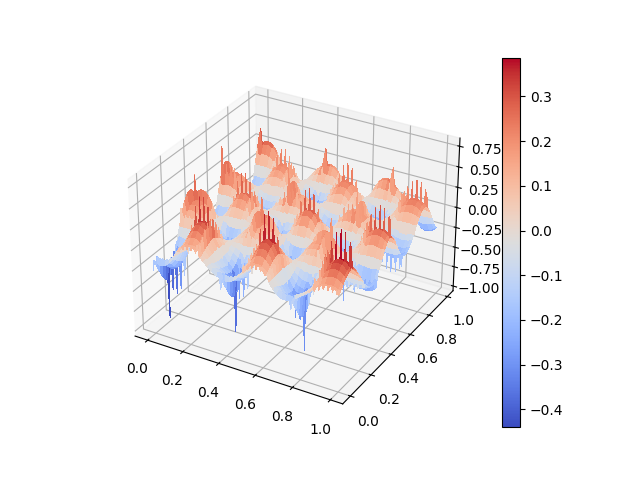
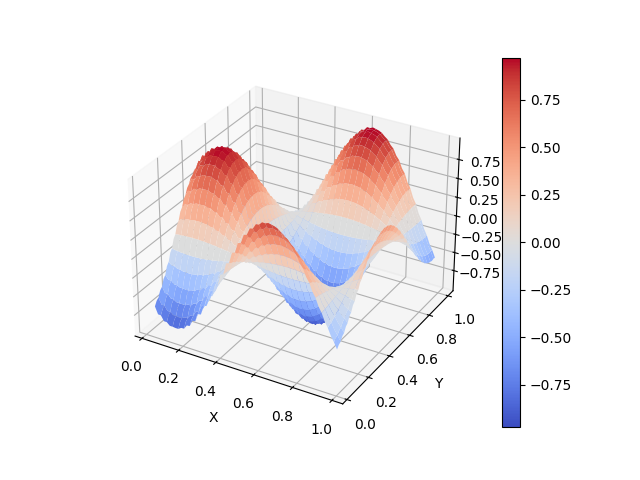
Divergence-free with C1 interpolant.

diff --git a/main.py b/main.py
@@ -3,47 +3,28 @@ from matplotlib import cm
 import numpy as np
 
 # B-splines of degree n
-def B(x, n):
+def B_old(x, n):
    if n == 0 and -0.5 <= x <= 0.5:
       return 1.0
 
    elif n > 0 and (-0.5)*(n+1) < x < 0.5*(n+1):
-      c1 = ((n-1)/2+1-x) * B(x-0.5, n-1)
-      c2 = ((n-1)/2+1+x) * B(x+0.5, n-1)
+      c1 = ((n-1)/2+1-x) * B_old(x-0.5, n-1)
+      c2 = ((n-1)/2+1+x) * B_old(x+0.5, n-1)
       s = (c1+c2)/n
       return s
    
    else:
       return 0.0
 
-
 # x-component of vector field U_2a (note: U_2a is discretely divergence free)
 def x_vel(x,y):
-   u = np.sin(x+2)*np.sin(y+4)   
+   u = np.sin(6*x+2)*np.sin(6*y+4)   
    return u
 
 # y-component of vector field U_2a
 def y_vel(x,y):
-   v = np.cos(x+2)*np.cos(y+4)
+   v = np.cos(6*x+2)*np.cos(6*y+4)
    return v
-
-# Equation 9 in the paper. Note: dx and dy are input grid cell sizes
-def u_interp_old(x, y, dx, dy):
-   xx = np.arange(0,2+dx,dx)/2
-   yy = np.arange(0,2+dy,dy)/2
-   x_centers = xx[1::2] 
-   y_centers = yy[1::2] 
-   x_sides = xx[::2]   
-   u = 0.0
-   for i in range(len(x_centers)):
-      for j in range(len(y_centers)):
-         x_sides = i*dx
-         y_centers = (j+1/2)*dy
-         u += (x_vel(x_sides, y_centers)*B((x - x_sides)/dx, 3)*B((y - y_centers)/dy, 2))
-   # for x_sides in np.arange(x - 2*dx, x + 2*dx):
-   #    for y_centers in np.arange(y - 2*dy, x + 2*dy):
-   #       u += (x_vel(x_sides, y_centers)*B(x - x_sides)/dx, 3)*B((y - y_centers)/dy, 2)
-   return u
 
 ######################################
 # B-splines of degree n
@@ -61,41 +42,111 @@ def B(i, n, x):
    elif n == 2 and i == 2:
       s = 0.5*x**2
    elif n == 3 and i == 0:
-      s = -1/6*np.power((x-1),2)
+      s = -1/6*pow((x-1),3)
    elif n == 3 and i == 1:
-      s = 0.5*np.power(x,3) + 2/3 - x**2
+      s = 0.5*pow(x,3) + 2/3 - x**2
    elif n == 3 and i == 2:
-      s = -1/2*np.power(x,3) + 1/6 + 0.5*x**2 + 0.5*x
+      s = -1/2*pow(x,3) + 1/6 + 0.5*x**2 + 0.5*x
    elif n == 3 and i == 3:
-      s = 1/6*np.power(x,3)
+      s = 1/6*pow(x,3)
    else:
       s = 0
    return s
 
 def u_interp(x, y, dx, dy):
-   u = 0.0
-   for i in range(4):
-      for j in range(3):
-         xval = i*dx
-         yval = j*dy
-         u += x_vel(xval, yval)*B(i, 2, x)*B(j, 1, y)
-   # for x_sides in np.arange(x - 2*dx, x + 2*dx):
-   #    for y_centers in np.arange(y - 2*dy, x + 2*dy):
-   #       u += (x_vel(x_sides, y_centers)*B(x - x_sides)/dx, 3)*B((y - y_centers)/dy, 2)
+   xx = np.arange(0,2+dx,dx)/2
+   yy = np.arange(0,2+dy,dy)/2
+   x_centers = xx[1::2] 
+   y_centers = yy[1::2] 
+   x_sides = xx[::2]   
+   y_sides = yy[::2] 
+
+   x1 = x_sides[x_sides < x].max()
+   x2 = x_sides[x_sides > x].min()
+
+   y1 = y_sides[y_sides < y].max()
+   y2 = y_sides[y_sides > y].min()
+
+   u = x_vel(x1-dx, y1-0.5*dx)*B(0, 3, x)*B(0, 2, y)\
+   + x_vel(x1, y1-0.5*dx)*B(1, 3, x)*B(0, 2, y) \
+   + x_vel(x2, y1-0.5*dx)*B(2, 3, x)*B(0, 2, y) \
+   + x_vel(x2+dx, y1-0.5*dx)*B(3, 3, x)*B(0, 2, y) \
+   + x_vel(x1-dx, y1+0.5*dx)*B(0, 3, x)*B(1, 2, y) \
+   + x_vel(x1, y1+0.5*dx)*B(1, 3, x)*B(1, 2, y) \
+   + x_vel(x2, y1+0.5*dx)*B(2, 3, x)*B(1, 2, y) \
+   + x_vel(x2+dx, y1+0.5*dx)*B(3, 3, x)*B(1, 2, y) \
+   + x_vel(x1-dx, y2+0.5*dx)*B(0, 3, x)*B(2, 2, y) \
+   + x_vel(x1, y2+0.5*dx)*B(1, 3, x)*B(2, 2, y) \
+   + x_vel(x2, y2+0.5*dx)*B(2, 3, x)*B(2, 2, y) \
+   + x_vel(x2+dx, y2+0.5*dx)*B(3, 3, x)*B(2, 2, y) 
+
    return u
 
 # Equation 10 in the paper. Note: dx and dy are input grid cell sizes      
-def v_interp(x, y, dx, dy):
-   v = 0.0
-   # for i in range(len(x_centers)):
-   #    for j in range(len(y_centers)):
-   #       v = v + (y_vel(x_centers[i], y_sides[j+1])*B((x - x_centers[i])/dx, 2)*B((y - y_sides[j+1])/dy, 3))
-   for j in range(4):
-      for i in range(3):
-         xval = i*dx
-         yval = j*dy
-         v += y_vel(xval, yval)*B(i, 1, x)*B(j, 2, y)      
+def v_interp(x, y, dx, dy, c = 0):
+   xx = np.arange(0,2+dx,dx)/2
+   yy = np.arange(0,2+dy,dy)/2
+   x_centers = xx[1::2] 
+   y_centers = yy[1::2] 
+   x_sides = xx[::2]   
+   y_sides = yy[::2]  
+
+   x1 = x_sides[x_sides < x].max()
+   x2 = x_sides[x_sides > x].min()
+
+   y1 = y_sides[y_sides < y].max()
+   y2 = y_sides[y_sides > y].min()
+
+   v = y_vel(x1-0.5*dx, y1-dx)*B(0, 2, x)*B(0, 3, y)\
+   + y_vel(x1-0.5*dx, y1)*B(0, 2, x)*B(1, 3, y) \
+   + y_vel(x1-0.5*dx, y2)*B(0, 2, x)*B(2, 3, y) \
+   + y_vel(x1-0.5*dx, y2+dx)*B(0, 2, x)*B(3, 3, y) \
+   + y_vel(x1+0.5*dx, y1-dx)*B(1, 2, x)*B(0, 3, y) \
+   + y_vel(x1+0.5*dx, y1)*B(1, 2, x)*B(1, 3, y) \
+   + y_vel(x1+0.5*dx, y2)*B(1, 2, x)*B(2, 3, y) \
+   + y_vel(x1+0.5*dx, y2+dx)*B(1, 2, x)*B(3, 3, y) \
+   + y_vel(x2+0.5*dx, y1-dx)*B(2, 2, x)*B(0, 3, y) \
+   + y_vel(x2+0.5*dx, y1)*B(2, 2, x)*B(1, 3, y) \
+   + y_vel(x2+0.5*dx, y2)*B(2, 2, x)*B(2, 3, y) \
+   + y_vel(x2+0.5*dx, y2+dx)*B(2, 2, x)*B(3, 3, y)    
+
    return v
+
+# Bilinear interpolation for comparison
+def bu_interp(x, y, dx, dy):
+   xx = np.arange(0,2+dx,dx)/2
+   yy = np.arange(0,2+dy,dy)/2
+   x_sides = xx[::2]   
+   y_centers = yy[1::2] 
+
+   x1 = x_sides[x_sides < x].max()
+   x2 = x_sides[x_sides > x].min()
+
+   y1 = y_centers[y_centers < y].max()
+   y2 = y_centers[y_centers > y].min()
+
+   fx_y1 = (x2-x)/(x2-x1)*x_vel(x1,y1) + (x-x1)/(x2-x1)*x_vel(x2,y1)
+   fx_y2 = (x2-x)/(x2-x1)*x_vel(x1,y2) + (x-x1)/(x2-x1)*x_vel(x2,y2)
+   u = (y2-y)/(y2-y1)*fx_y1 + (y-y1)/(y2-y1)*fx_y2
+   return u
+
+# Bilinear interpolation for comparison
+def bv_interp(x, y, dx, dy):
+   xx = np.arange(0,2+dx,dx)/2
+   yy = np.arange(0,2+dy,dy)/2
+   x_centers = xx[1::2] # cell-centers 
+   y_sides = yy[::2]    # cell-sides 
+
+   x1 = x_centers[x_centers < x].max()
+   x2 = x_centers[x_centers > x].min()
+
+   y1 = y_sides[y_sides < y].max()
+   y2 = y_sides[y_sides > y].min()
+
+   fy_x1 = (y2-y)/(y2-y1)*y_vel(x1,y1) + (y-y1)/(y2-y1)*y_vel(x2,y1)
+   fy_x2 = (y2-y)/(y2-y1)*y_vel(x1,y2) + (y-y1)/(y2-y1)*y_vel(x2,y2)
+   u = (x2-x)/(x2-x1)*fy_x1 + (x-x1)/(x2-x1)*fy_x2
+   return u
 
 # Equation 17 in the paper
 def div_17(x, y, dx, dy): 
@@ -114,19 +165,19 @@ def div_17(x, y, dx, dy):
 
 if __name__=="__main__":
 
-   # # Plot some B-splines
-   # fig, ax = plt.subplots()
-   # xx = np.linspace(-4.0, 4.0, 400)
-   # ax.plot(xx, [B(x, 0) for x in xx], 'r-', lw=2)
-   # ax.plot(xx, [B(x, 1) for x in xx], 'g-', lw=2)
-   # ax.plot(xx, [B(x, 2) for x in xx], 'b-', lw=2)
-   # ax.plot(xx, [B(x, 3) for x in xx], 'y-', lw=2)
-   # ax.plot(xx, [B(x, 4) for x in xx], 'k-', lw=2)
-   # ax.grid(True)
-   # plt.savefig('bsplines.png')
+   # Plot some B-splines
+   fig, ax = plt.subplots()
+   xx = np.linspace(-4.0, 4.0, 400)
+   ax.plot(xx, [B_old(x, 0) for x in xx], 'r-', lw=2)
+   ax.plot(xx, [B_old(x, 1) for x in xx], 'g-', lw=2)
+   ax.plot(xx, [B_old(x, 2) for x in xx], 'b-', lw=2)
+   ax.plot(xx, [B_old(x, 3) for x in xx], 'y-', lw=2)
+   ax.plot(xx, [B_old(x, 4) for x in xx], 'k-', lw=2)
+   ax.grid(True)
+   plt.savefig('bsplines.png')
 
-   dx = np.double(1/32) # input grid
-   dy = np.double(1/32) # input grid
+   dx = np.double(1/16) # input grid
+   dy = np.double(1/16) # input grid
    xx = np.arange(0,2+dx,dx)/2
    yy = np.arange(0,2+dy,dy)/2
    x_sides = xx[::2]    # cell-sides 
@@ -144,32 +195,32 @@ if __name__=="__main__":
    # by sampling the interpolated fields
    def div(x, y, delta, dx, dy): 
       d = (u_interp(x+delta, y, dx, dy) - u_interp(x-delta, y, dx, dy))/(2*delta) \
-         + (v_interp(x, y+delta, dx, dy) - v_interp(x, y-delta, dx, dy))/(2*delta)
+       + (v_interp(x, y+delta, dx, dy) - v_interp(x, y-delta, dx, dy))/(2*delta)
       return d
 
-   # # Randomly sample the computational domain to generate test coordinates
-   # x_coords =  np.random.uniform(low=2*dx, high=1.0-2*dx, size=(64,))  
-   # y_coords =  np.random.uniform(low=2*dx, high=1.0-2*dx, size=(64,))
+   # Randomly sample the computational domain to generate test coordinates
+   x_coords =  np.random.uniform(low=0.05, high=0.95, size=(100,))  
+   y_coords =  np.random.uniform(low=0.05, high=0.95, size=(100,))
    tolerance = 1e-8
    delta = 1e-6
-   x_coords = []
-   y_coords = []
-   # Choose internal points on our refined 128 x 128 grid
+   # x_coords = []
+   # y_coords = []
+   # # # Choose internal points on our refined 128 x 128 grid
    # for i in np.arange(1,128): 
-   #    x_coords.append(i/128)   # Any coordinates that fall on the input grid result in a non-zero divergence. Why? Surface plot below provides a little insight.
+   #    x_coords.append(i/128)   # Any coordinates that fall on the input grid result in a non-zero divergence.
    #    y_coords.append(i/128)
-   # for x in x_coords:
-   #    for y in y_coords:  
-   #       if div(x,y,delta,dx,dy) > tolerance:
-   #          print(f"Divergence non-zero at {(x,y)}. Divergence = {div(x,y,delta,dx,dy)}")
-   #       else:
-   #          print(f"Divergence-free at cell {(x,y)}. Divergence = {div(x,y,delta,dx,dy)}")
+   for x in x_coords:
+      for y in y_coords:  
+         if abs(div(x,y,delta,dx,dy)) > tolerance:
+            print(f"Divergence non-zero at {(x,y)}. Divergence = {div(x,y,delta,dx,dy)}")
+         else:
+            print(f"Divergence-free at cell {(x,y)}. Divergence = {div(x,y,delta,dx,dy)}")
   
    # Surface plots of original velocity field and interpolated velocity fields.
    dx = 1/32 # input grid
    dy = 1/32 # input grid
-   xx = np.arange(0,1,1/64)
-   yy = np.arange(0,1,1/64)
+   xx = np.arange(2/64,1,1/64)
+   yy = np.arange(2/64,1,1/64)
    zz = []
 
    for x in xx:
@@ -185,11 +236,11 @@ if __name__=="__main__":
    Z = np.reshape(zz,[xx.shape[0],yy.shape[0]])
 
    # Plot the surface.
-   surf = ax.plot_surface(X, Y, Z, cmap=cm.coolwarm,
-                        linewidth=0, antialiased=False)
+   surf = ax.plot_surface(X, Y, Z, cmap=cm.coolwarm)
 
    # Add a color bar which maps values to colors.
    fig.colorbar(surf)
-
-   plt.show()
+   plt.xlabel("X")
+   plt.ylabel("Y")
+   #plt.show()
    plt.savefig('u_interpolated.png')
